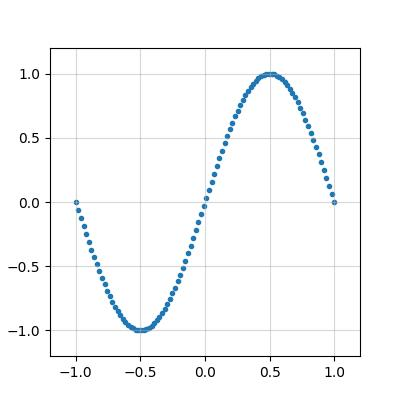
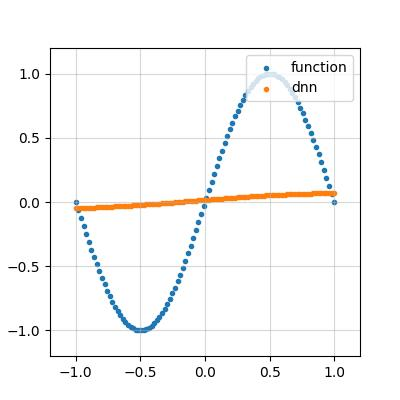
add code

diff --git a/00_tf2/main.py b/00_tf2/main.py
@@ -23,7 +23,7 @@ def main():
     xmax =  1.
     nx   = 100
 
-    p_id = 2
+    p_id = 0
     if p_id == 0:
         x = np.linspace(xmin, xmax, nx)
         y = func0(x)
@@ -61,7 +61,7 @@ def main():
     depth  = 4
     w_init = "Glorot"
     b_init = "zeros"
-    act    = "swish"
+    act    = "tanh"
     lr     = 5e-4
     opt    = "Adam"
     f_scl  = "minmax"
@@ -70,7 +70,7 @@ def main():
 
     # perpare dataset
     x_train = tf.random.uniform(
-        (10, 1), xmin, xmax, dtype=d_type
+        (30, 1), xmin, xmax, dtype=d_type
     )
     y_train = tf.sin(np.pi * x_train)
 
